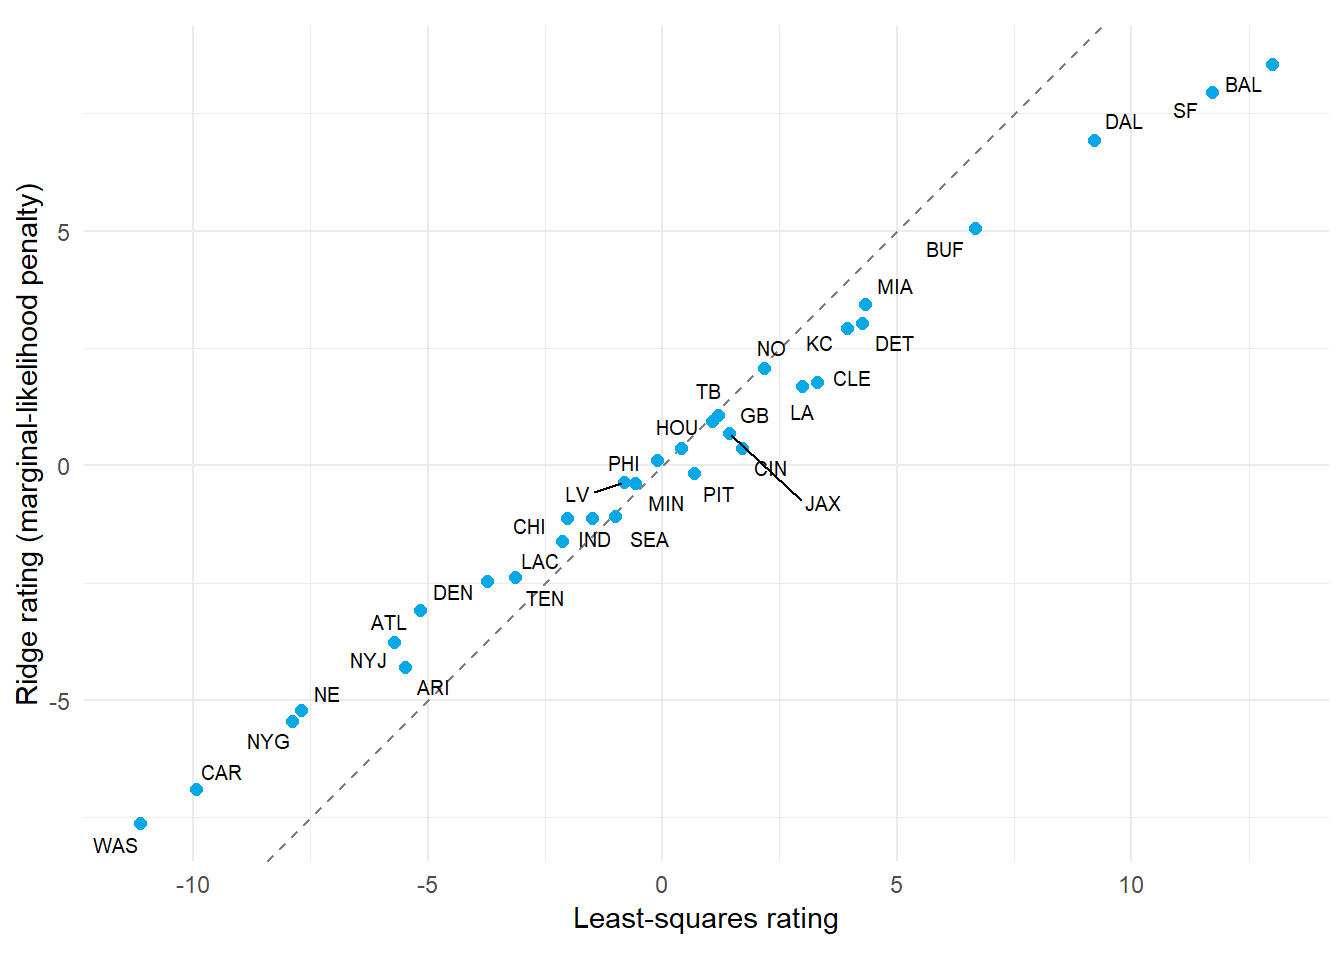
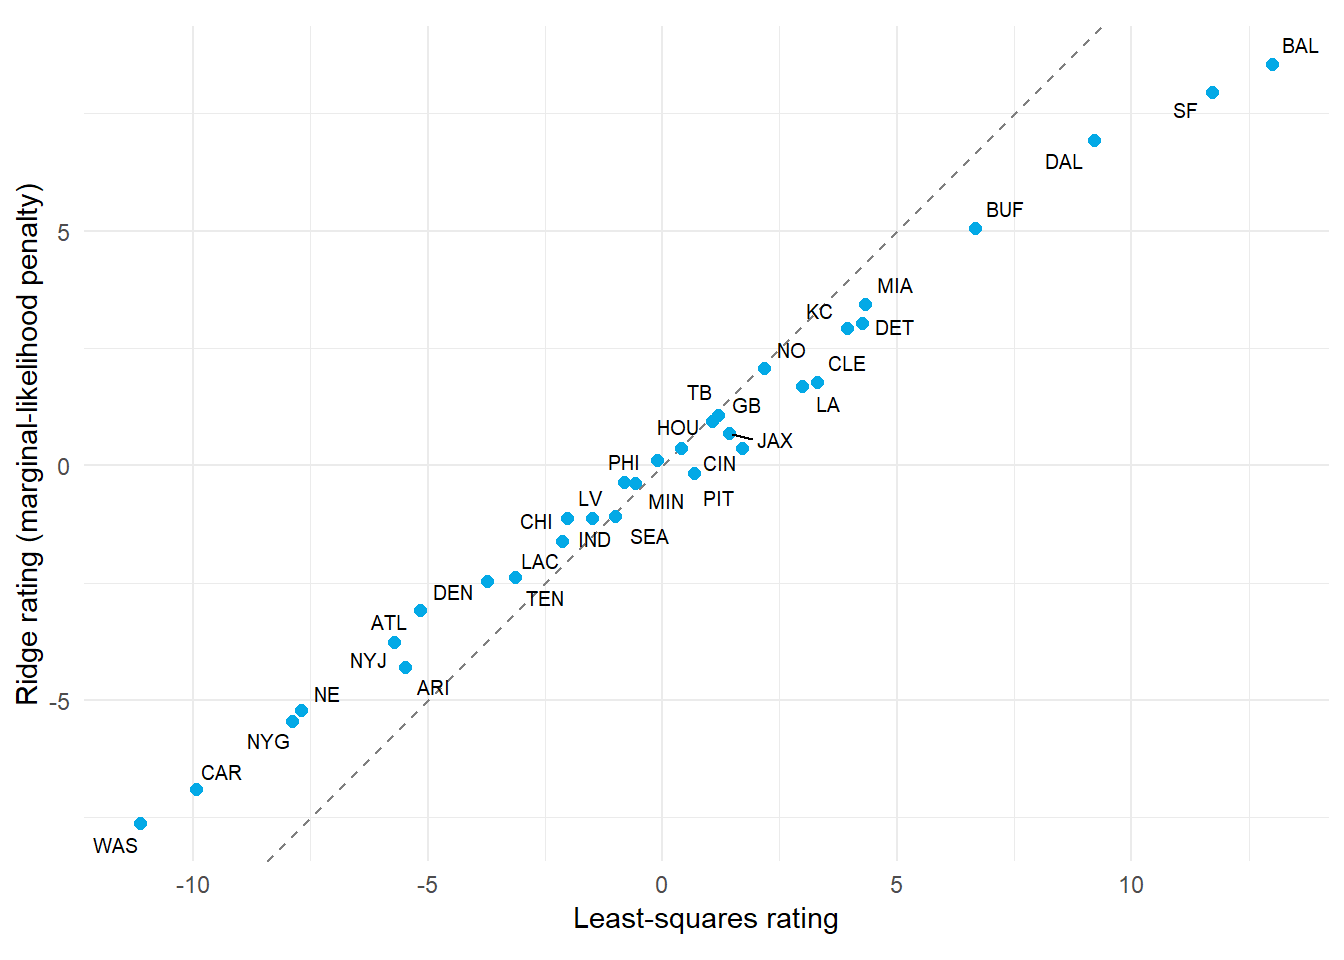
updates

diff --git a/docs/lecture-5/5.2-ratings-from-margins.html b/docs/lecture-5/5.2-ratings-from-margins.html
@@ -510,17 +510,37 @@ a_{ji}=y_{ji}+\theta_{k(i)}-\alpha s_{ji}.
 \frac{\sigma^2}{G+\lambda}
 \right).
 </annotation></semantics></math></p>
-<p>At the joint ridge solution, the same coordinate equation uses estimated opponent ratings and <math display="inline" xmlns="http://www.w3.org/1998/Math/MathML"><semantics><mover><mi>α</mi><mo accent="true">̂</mo></mover><annotation encoding="application/x-tex">\hat\alpha</annotation></semantics></math>. Against approximately average opponents, <math display="inline" xmlns="http://www.w3.org/1998/Math/MathML"><semantics><mrow><msub><mi>θ</mi><mrow><mi>k</mi><mo stretchy="false" form="prefix">(</mo><mi>i</mi><mo stretchy="false" form="postfix">)</mo></mrow></msub><mo>≈</mo><mn>0</mn></mrow><annotation encoding="application/x-tex">\theta_{k(i)}\approx0</annotation></semantics></math>. Write <math display="inline" xmlns="http://www.w3.org/1998/Math/MathML"><semantics><mrow><msub><mi>m</mi><mi>i</mi></msub><mo>=</mo><msub><mi>y</mi><mrow><mi>j</mi><mi>i</mi></mrow></msub><mo>−</mo><mover><mi>α</mi><mo accent="true">̂</mo></mover><msub><mi>s</mi><mrow><mi>j</mi><mi>i</mi></mrow></msub></mrow><annotation encoding="application/x-tex">m_i=y_{ji}-\hat\alpha s_{ji}</annotation></semantics></math> and <math display="inline" xmlns="http://www.w3.org/1998/Math/MathML"><semantics><mrow><msub><mover><mi>m</mi><mo accent="true">‾</mo></mover><mi>j</mi></msub><mo>=</mo><msup><mi>G</mi><mrow><mi>−</mi><mn>1</mn></mrow></msup><msub><mo>∑</mo><mi>i</mi></msub><msub><mi>m</mi><mi>i</mi></msub></mrow><annotation encoding="application/x-tex">\bar m_j=G^{-1}\sum_i m_i</annotation></semantics></math>. The simplified objective is</p>
-<p><math display="block" xmlns="http://www.w3.org/1998/Math/MathML"><semantics><mrow><msub><mi>Q</mi><mi>j</mi></msub><mo stretchy="false" form="prefix">(</mo><msub><mi>θ</mi><mi>j</mi></msub><mo stretchy="false" form="postfix">)</mo><mo>=</mo><munderover><mo>∑</mo><mrow><mi>i</mi><mo>=</mo><mn>1</mn></mrow><mi>G</mi></munderover><mo stretchy="false" form="prefix">(</mo><msub><mi>m</mi><mi>i</mi></msub><mo>−</mo><msub><mi>θ</mi><mi>j</mi></msub><msup><mo stretchy="false" form="postfix">)</mo><mn>2</mn></msup><mo>+</mo><mi>λ</mi><msubsup><mi>θ</mi><mi>j</mi><mn>2</mn></msubsup><mi>.</mi></mrow><annotation encoding="application/x-tex">
-Q_j(\theta_j)=\sum_{i=1}^G(m_i-\theta_j)^2+\lambda\theta_j^2.
+<p>At the joint ridge solution, the same coordinate equation uses estimated opponent ratings and <math display="inline" xmlns="http://www.w3.org/1998/Math/MathML"><semantics><mover><mi>α</mi><mo accent="true">̂</mo></mover><annotation encoding="application/x-tex">\hat\alpha</annotation></semantics></math>.</p>
+<p>A normal distribution’s mode equals its mean. At the joint posterior mode, each coordinate must maximize its conditional posterior, evaluated at the other fitted parameters. Hence <math display="block" xmlns="http://www.w3.org/1998/Math/MathML"><semantics><mrow><msub><mover><mi>θ</mi><mo accent="true">̂</mo></mover><mi>j</mi></msub><mo>=</mo><mfrac><mrow><munder><mo>∑</mo><mi>i</mi></munder><mrow><mo stretchy="true" form="prefix">(</mo><msub><mi>y</mi><mrow><mi>j</mi><mi>i</mi></mrow></msub><mo>+</mo><msub><mover><mi>θ</mi><mo accent="true">̂</mo></mover><mrow><mi>k</mi><mo stretchy="false" form="prefix">(</mo><mi>i</mi><mo stretchy="false" form="postfix">)</mo></mrow></msub><mo>−</mo><mover><mi>α</mi><mo accent="true">̂</mo></mover><msub><mi>s</mi><mrow><mi>j</mi><mi>i</mi></mrow></msub><mo stretchy="true" form="postfix">)</mo></mrow></mrow><mrow><mi>G</mi><mo>+</mo><mi>λ</mi></mrow></mfrac><mi>.</mi></mrow><annotation encoding="application/x-tex">
+\hat\theta_j
+=
+\frac{
+\sum_i\left(y_{ji}+\hat\theta_{k(i)}-\hat\alpha s_{ji}\right)
+}{G+\lambda}.
 </annotation></semantics></math></p>
-<p>Its derivative gives</p>
-<p><math display="block" xmlns="http://www.w3.org/1998/Math/MathML"><semantics><mrow><mi>−</mi><mn>2</mn><munder><mo>∑</mo><mi>i</mi></munder><msub><mi>m</mi><mi>i</mi></msub><mo>+</mo><mn>2</mn><mi>G</mi><msub><mover><mi>θ</mi><mo accent="true">̂</mo></mover><mi>j</mi></msub><mo>+</mo><mn>2</mn><mi>λ</mi><msub><mover><mi>θ</mi><mo accent="true">̂</mo></mover><mi>j</mi></msub><mo>=</mo><mn>0</mn><mo>,</mo><mspace width="2.0em"></mspace><menclose notation="box"><mrow><msub><mover><mi>θ</mi><mo accent="true">̂</mo></mover><mi>j</mi></msub><mo>≈</mo><mfrac><mi>G</mi><mrow><mi>G</mi><mo>+</mo><mi>λ</mi></mrow></mfrac><msub><mover><mi>m</mi><mo accent="true">‾</mo></mover><mi>j</mi></msub><mi>.</mi></mrow></menclose></mrow><annotation encoding="application/x-tex">
--2\sum_i m_i+2G\hat\theta_j+2\lambda\hat\theta_j=0,
+<p>Define <math display="block" xmlns="http://www.w3.org/1998/Math/MathML"><semantics><mrow><msub><mi>m</mi><mi>i</mi></msub><mo>=</mo><msub><mi>y</mi><mrow><mi>j</mi><mi>i</mi></mrow></msub><mo>−</mo><mover><mi>α</mi><mo accent="true">̂</mo></mover><msub><mi>s</mi><mrow><mi>j</mi><mi>i</mi></mrow></msub><mo>,</mo><mspace width="2.0em"></mspace><msub><mover><mi>m</mi><mo accent="true">‾</mo></mover><mi>j</mi></msub><mo>=</mo><mfrac><mn>1</mn><mi>G</mi></mfrac><munder><mo>∑</mo><mi>i</mi></munder><msub><mi>m</mi><mi>i</mi></msub><mo>,</mo><mspace width="2.0em"></mspace><msub><mover><mover><mi>θ</mi><mo accent="true">̂</mo></mover><mo accent="true">¯</mo></mover><mrow><mrow><mi mathvariant="normal">o</mi><mi mathvariant="normal">p</mi><mi mathvariant="normal">p</mi></mrow><mo>,</mo><mi>j</mi></mrow></msub><mo>=</mo><mfrac><mn>1</mn><mi>G</mi></mfrac><munder><mo>∑</mo><mi>i</mi></munder><msub><mover><mi>θ</mi><mo accent="true">̂</mo></mover><mrow><mi>k</mi><mo stretchy="false" form="prefix">(</mo><mi>i</mi><mo stretchy="false" form="postfix">)</mo></mrow></msub><mi>.</mi></mrow><annotation encoding="application/x-tex">
+m_i=y_{ji}-\hat\alpha s_{ji},
 \qquad
-\boxed{\hat\theta_j\approx\frac{G}{G+\lambda}\bar m_j.}
+\bar m_j=\frac1G\sum_i m_i,
+\qquad
+\overline{\hat\theta}_{\mathrm{opp},j}
+=\frac1G\sum_i\hat\theta_{k(i)}.
+</annotation></semantics></math> Then the exact coordinate equation is <math display="block" xmlns="http://www.w3.org/1998/Math/MathML"><semantics><menclose notation="box"><mrow><msub><mover><mi>θ</mi><mo accent="true">̂</mo></mover><mi>j</mi></msub><mo>=</mo><mfrac><mi>G</mi><mrow><mi>G</mi><mo>+</mo><mi>λ</mi></mrow></mfrac><mrow><mo stretchy="true" form="prefix">(</mo><msub><mover><mi>m</mi><mo accent="true">‾</mo></mover><mi>j</mi></msub><mo>+</mo><msub><mover><mover><mi>θ</mi><mo accent="true">̂</mo></mover><mo accent="true">¯</mo></mover><mrow><mrow><mi mathvariant="normal">o</mi><mi mathvariant="normal">p</mi><mi mathvariant="normal">p</mi></mrow><mo>,</mo><mi>j</mi></mrow></msub><mo stretchy="true" form="postfix">)</mo></mrow><mi>.</mi></mrow></menclose><annotation encoding="application/x-tex">
+\boxed{
+\hat\theta_j
+=\frac{G}{G+\lambda}
+\left(\bar m_j+\overline{\hat\theta}_{\mathrm{opp},j}\right).
+}
 </annotation></semantics></math></p>
-<p>The algebra is exact for the simplified objective. The approximation is ignoring the opponents’ nonzero ratings in the full schedule. A home win by 10 points against an opponent rated 4, with home advantage 3, gives an adjusted performance of <math display="inline" xmlns="http://www.w3.org/1998/Math/MathML"><semantics><mrow><mn>10</mn><mo>+</mo><mn>4</mn><mo>−</mo><mn>3</mn><mo>=</mo><mn>11</mn></mrow><annotation encoding="application/x-tex">10+4-3=11</annotation></semantics></math>. The same win away gives <math display="inline" xmlns="http://www.w3.org/1998/Math/MathML"><semantics><mrow><mn>10</mn><mo>+</mo><mn>4</mn><mo>+</mo><mn>3</mn><mo>=</mo><mn>17</mn></mrow><annotation encoding="application/x-tex">10+4+3=17</annotation></semantics></math>.</p>
+<p>If the fitted opponent ratings average approximately zero, <math display="block" xmlns="http://www.w3.org/1998/Math/MathML"><semantics><mrow><msub><mover><mover><mi>θ</mi><mo accent="true">̂</mo></mover><mo accent="true">¯</mo></mover><mrow><mrow><mi mathvariant="normal">o</mi><mi mathvariant="normal">p</mi><mi mathvariant="normal">p</mi></mrow><mo>,</mo><mi>j</mi></mrow></msub><mo>≈</mo><mn>0</mn><mo>,</mo></mrow><annotation encoding="application/x-tex">
+\overline{\hat\theta}_{\mathrm{opp},j}\approx0,
+</annotation></semantics></math></p>
+<p>then</p>
+<p><math display="block" xmlns="http://www.w3.org/1998/Math/MathML"><semantics><menclose notation="box"><mrow><msub><mover><mi>θ</mi><mo accent="true">̂</mo></mover><mi>j</mi></msub><mo>≈</mo><mfrac><mi>G</mi><mrow><mi>G</mi><mo>+</mo><mi>λ</mi></mrow></mfrac><msub><mover><mi>m</mi><mo accent="true">‾</mo></mover><mi>j</mi></msub><mi>.</mi></mrow></menclose><annotation encoding="application/x-tex">
+\boxed{
+\hat\theta_j\approx\frac{G}{G+\lambda}\bar m_j.
+}
+</annotation></semantics></math></p>
 </section>
 <section id="what-does-retaining-71-of-the-deviation-mean" class="level3" data-number="4.2">
 <h3 data-number="4.2" class="anchored" data-anchor-id="what-does-retaining-71-of-the-deviation-mean"><span class="header-section-number">4.2</span> What does retaining 71% of the deviation mean?</h3>
